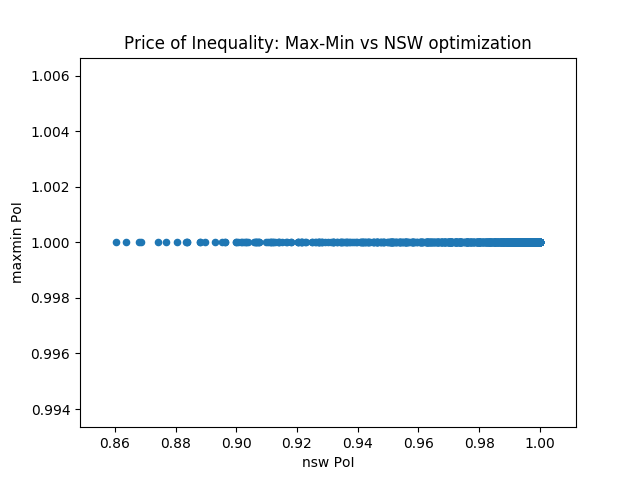
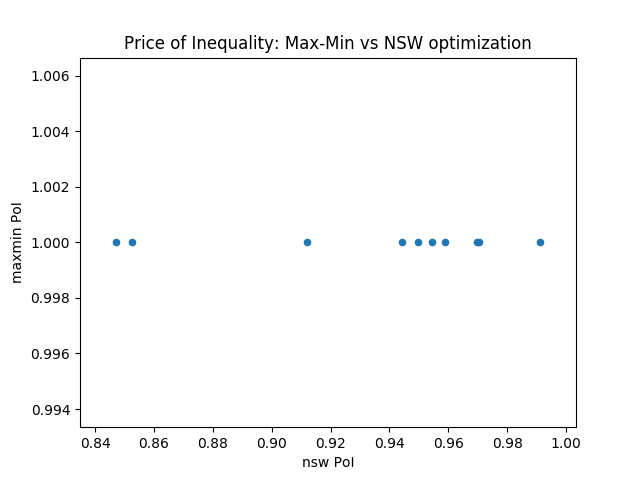
Adding the demo script that increases the number of agents

Changed region(s): [[0.1875, 0.4688, 0.8438, 0.5312], [0.125, 0.9062, 0.9062, 0.9375]]

diff --git a/no-money/demo.py b/no-money/demo.py
@@ -1,0 +1,125 @@
+import numpy as np
+import mechs
+import players
+import pandas as pd
+import matplotlib
+matplotlib.use('Agg')
+from matplotlib import pyplot as plt
+import inequality
+import utils
+from sklearn.preprocessing import normalize
+from tabulate import tabulate
+from random import uniform
+
+
+def main():
+	np.set_printoptions(suppress=True)
+	#holder vars
+	player_dict = {}
+	data = {'inequality tolerance': [], 'utilities': [],\
+	'usw alloc u': [], 'usw alloc v': [], \
+	'nsw alloc u': [], 'nsw alloc v': [], \
+	'maxmin alloc u': [], 'maxmin alloc v': [], \
+	'usw u': [], 'usw v': [], \
+	'nsw u': [], 'nsw v': [], \
+	'maxmin u': [], 'maxmin v': [], \
+	'usw PoI' : [], 'nsw PoI' : [], 'maxmin PoI' : [],
+	'usw xstar FS inequality' : [], 'nsw xstar FS inequality' : [], 'maxmin xstar FS inequality' : [],
+	'usw xalpha FS inequality' : [], 'nsw xalpha FS inequality' : [], 'maxmin xalpha FS inequality' : []
+	}
+
+
+	num_reps = 500
+
+	#global vars
+	n = 4 #number of agents
+	g = 4 #number of goods
+	alpha = [0.2, 0.2,0.2, 0.2] #value for inequality tolerance.
+	util_type = 'linear'
+
+	for _ in range(num_reps):
+
+		data['inequality tolerance'].append(alpha)
+
+		#eps = 2. - np.sqrt(2)
+		#init_u = [[0.5, 0.5, 0.], [(1. -eps) / 2, (1. -eps) / 2, eps]]
+		eps = 0.05
+		#init_u = list(normalize([[1., 1., uniform(0, eps)], [1 - eps + uniform(-eps, eps), 1. - eps + uniform(-eps, eps), 2. * eps + uniform(-eps, eps)]], axis=1, norm='l1'))
+		#eps = 0.05
+		#init_u = [[1. - eps, eps, 0.], [0.5 + eps, 0, 0.5 - eps], [0., 0.5, 0.5]]
+		#print(init_u)
+		init_u = list(normalize(np.random.rand(n,g), axis=1, norm='l1'))
+		data['utilities'].append([init_u])
+
+		#initialize players
+		for player in range(n):
+			player_dict[player] = players.Player(player, init_u[player], alpha[player], util_type, g, n, init_u) #random u_ij in [0,1] parameterizing the utility and c_i constant
+
+		# standard allocation setting
+		alloc = mechs.usw(player_dict, g)
+		data['usw alloc u'].append([alloc])
+		data['usw xstar FS inequality'].append(inequality.FehrSchmidtIneq(player_dict, alloc))
+		alloc_nsw = mechs.nsw_ceei(player_dict, g)
+		data['nsw alloc u'].append([alloc_nsw])
+		data['nsw xstar FS inequality'].append(inequality.FehrSchmidtIneq(player_dict, alloc_nsw))
+		alloc_maxmin = mechs.maxmin_u(player_dict, g)
+		data['maxmin alloc u'].append([alloc_maxmin])
+		data['maxmin xstar FS inequality'].append(inequality.FehrSchmidtIneq(player_dict, alloc_maxmin))
+
+		
+		# allocations with social preferences
+		v_alloc = mechs.usw_v(player_dict, g)
+		v_alloc_nsw = mechs.nsw_ceei_v(player_dict, g)
+		v_alloc_maxmin = mechs.maxmin_v(player_dict, g)
+		data['usw alloc v'].append([v_alloc])
+		data['usw xalpha FS inequality'].append(inequality.FehrSchmidtIneq(player_dict, v_alloc))
+		data['nsw alloc v'].append([v_alloc_nsw])
+		data['nsw xalpha FS inequality'].append(inequality.FehrSchmidtIneq(player_dict, v_alloc_nsw))
+		data['maxmin alloc v'].append([v_alloc_maxmin])
+		data['maxmin xalpha FS inequality'].append(inequality.FehrSchmidtIneq(player_dict, v_alloc_maxmin))
+		
+
+	    #compute social welfare and price of inequality
+		usw_u = utils.utilitariansocialwelfare(player_dict, alloc)
+		nsw_u = utils.nashsocialwelfare(player_dict, alloc_nsw)
+		maxminsw_u = utils.rawlsiansocialwelfare(player_dict, alloc_maxmin)
+		data['usw u'].append(usw_u)
+		data['nsw u'].append(nsw_u)
+		data['maxmin u'].append(maxminsw_u)
+
+		usw_v = utils.utilitariansocialwelfare(player_dict, v_alloc)
+		nsw_v = utils.nashsocialwelfare(player_dict, v_alloc_nsw)
+		maxminsw_v = utils.rawlsiansocialwelfare(player_dict, v_alloc_maxmin)
+		data['usw v'].append(usw_v)
+		data['nsw v'].append(nsw_v)
+		data['maxmin v'].append(maxminsw_v)
+
+		data['usw PoI'].append(float(usw_v / usw_u))
+		data['nsw PoI'].append(float(nsw_v / nsw_u))
+		data['maxmin PoI'].append(float(maxminsw_v / maxminsw_u))
+
+
+	df = pd.DataFrame(data=data)
+
+
+	print(tabulate(df, headers = 'keys', tablefmt = 'psql'))
+
+	from os.path import exists
+	filename = 'simulation_results_demo.csv'
+	if exists(filename) == False:
+		df.to_csv(filename,index=False)
+	else:
+		df.to_csv(filename, mode='a', index=False, header=False)
+
+
+
+	utils.spPoI(df, 'usw PoI', 'nsw PoI', 'Price of Inequality: NSW vs USW optimization', 'figs/PoI_NSW_USW_uniformprefs_4players.png')
+	#utils.spPoI(df, 'usw PoI', 'maxmin PoI', 'Price of Inequality: Max-Min vs USW optimization', 'figs/PoI_maxmin_USW_uniformprefs_4players.png')
+	#utils.spPoI(df, 'nsw PoI', 'maxmin PoI', 'Price of Inequality: Max-Min vs NSW optimization', 'figs/PoI_maxmin_NSW_uniformprefs.png')
+
+	utils.boxplot(df, ['usw PoI', 'nsw PoI', 'maxmin PoI'],plottitle='Price of Inequalities: Uniformly random Preferences', filename='figs/boxplot_PoIs_uniformprefs_4players.png')
+
+
+
+if __name__ == "__main__":
+	main()

diff --git a/no-money/inequality.py b/no-money/inequality.py
@@ -1,14 +1,16 @@
 import numpy as np
 import cvxpy as cp
 
-def gen_ent_bc(n, alpha = 2):
-    return lambda x : (1. / (n * alpha * (alpha - 1.))) * ((n*x)**alpha + (n-1) * ((n * (1.-x)) / (n-1.))**alpha)
-    
-def variance_bc(n):
-    return lambda x : (1./n)* (x - (1./n)** 2. + (n-1.) * (((1.-x) / (n-1.)) - (1./n)) ** 2)
-
-def gini_bc(n):
-    return lambda x : (n-1) * cp.abs( x - (1.-x) / (n - 1.)) / n
+def FehrSchmidtIneq(player_dict, alloc):
+    total = 0
+    n = len(player_dict.values())
+    for i, player_i in player_dict.items():
+        player_tot = 0
+        for j, player_j in player_dict.items():
+            player_tot += np.abs(player_i.u(alloc[i,:]) - player_j.u(alloc[j,:]))
+        player_tot /= (n-1.)
+        total += player_tot
+    return total
 
 def total_ineq(player_dict, bids, good_or_util='u', iq_metric='gini'):
     if iq_metric == 'gini':
